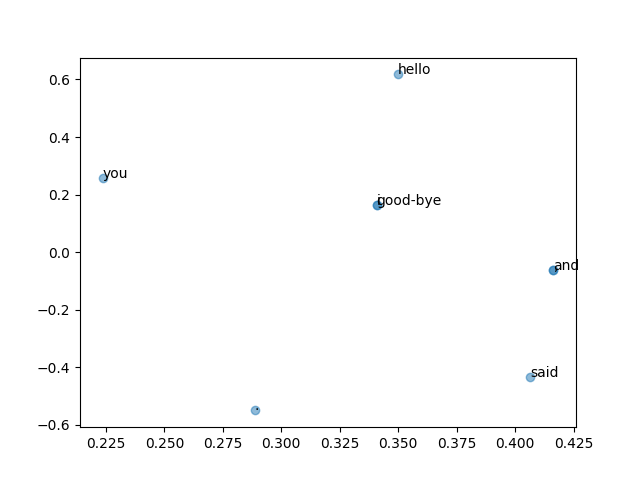
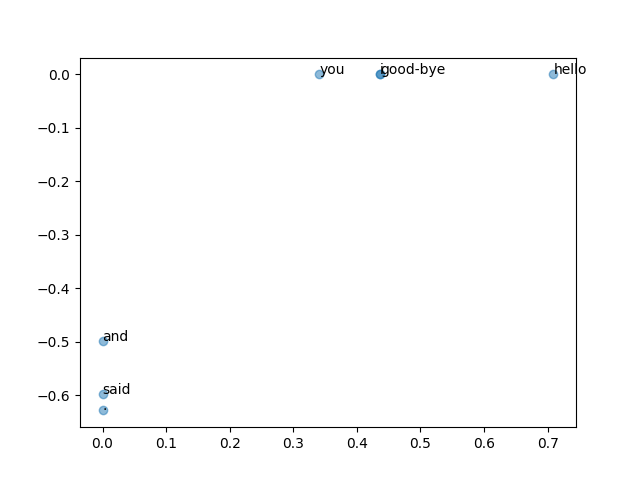
Update value of variable text

diff --git a/test/test_count_based_methods.py b/test/test_count_based_methods.py
@@ -9,7 +9,7 @@ from count_based_methods import CountBasedMethod
 
 class TestCountBasedMethod(unittest.TestCase):
     def setUp(self):
-        text = "You said good-bye, and I said hello."
+        text = "You said good-bye and I said hello."
         self.cbm = CountBasedMethod(text)
         self.cbm.preprocess()
         vocab_size = len(self.cbm.word_to_id)
@@ -17,12 +17,12 @@ class TestCountBasedMethod(unittest.TestCase):
         self.query = "you"
 
     def test_words(self):
-        self.assertEqual(["you", "said", "good-bye", ",", "and", "i", "said", "hello", "."], self.cbm.words)
+        self.assertEqual(["you", "said", "good-bye", "and", "i", "said", "hello", "."], self.cbm.words)
 
     def test_take_out_query(self):
         query_info, query_vec = self.cbm._take_out_query(self.query)
         self.assertEqual({"query": "you"}, query_info)
-        assert_array_equal(np.array([0, 1, 0, 0, 0, 0, 0, 0]), query_vec)
+        assert_array_equal(np.array([0, 1, 0, 0, 0, 0, 0]), query_vec)
 
     def test_cos_similarity(self):
         x = self.cbm.co_matrix[self.cbm.word_to_id["you"]]
@@ -32,7 +32,7 @@ class TestCountBasedMethod(unittest.TestCase):
     def test_calc_cos_similarity(self):
         *_, query_vec = self.cbm._take_out_query(self.query)
         assert_almost_equal(np.array([
-            1., 0., 0.7071068, 0., 0., 0.7071068, 0.7071068, 0.
+            1., 0., 0.7071068, 0., 0.7071068, 0.7071068, 0.
         ]), self.cbm._calc_cos_similarity(query_vec))
 
     def test_output_result_asc(self):
@@ -43,42 +43,39 @@ class TestCountBasedMethod(unittest.TestCase):
             "i": 0.7071067691154799,
             "hello": 0.7071067691154799,
             "said": 0.0,
-            ",": 0.0
+            "and": 0.0
         }, self.cbm._output_result_asc(similarity, self.query))
 
     def test_preprocess(self):
-        assert_array_equal(np.array([0, 1, 2, 3, 4, 5, 1, 6, 7]), self.cbm.corpus)
+        assert_array_equal(np.array([0, 1, 2, 3, 4, 1, 5, 6]), self.cbm.corpus)
         self.assertEqual({
             "you": 0,
             "said": 1,
             "good-bye": 2,
-            ",": 3,
-            "and": 4,
-            "i": 5,
-            "hello": 6,
-            ".": 7
+            "and": 3,
+            "i": 4,
+            "hello": 5,
+            ".": 6
         }, self.cbm.word_to_id)
         self.assertEqual({
             0: "you",
             1: "said",
             2: "good-bye",
-            3: ",",
-            4: "and",
-            5: "i",
-            6: "hello",
-        7: "."
+            3: "and",
+            4: "i",
+            5: "hello",
+            6: "."
         }, self.cbm.id_to_word)
 
     def test_create_co_matrix(self):
         assert_array_equal(np.array([
-            [0, 1, 0, 0, 0, 0, 0, 0],
-            [1, 0, 1, 0, 0, 1, 1, 0],
-            [0, 1, 0, 1, 0, 0, 0, 0],
-            [0, 0, 1, 0, 1, 0, 0, 0],
-            [0, 0, 0, 1, 0, 1, 0, 0],
-            [0, 1, 0, 0, 1, 0, 0, 0],
-            [0, 1, 0, 0, 0, 0, 0, 1],
-            [0, 0, 0, 0, 0, 0, 1, 0]
+            [0, 1, 0, 0, 0, 0, 0],
+            [1, 0, 1, 0, 1, 1, 0],
+            [0, 1, 0, 1, 0, 0, 0],
+            [0, 0, 1, 0, 1, 0, 0],
+            [0, 1, 0, 1, 0, 0, 0],
+            [0, 1, 0, 0, 0, 0, 1],
+            [0, 0, 0, 0, 0, 1, 0]
         ]), self.cbm.co_matrix)
 
     def test_rank_similarity(self):
@@ -88,34 +85,32 @@ class TestCountBasedMethod(unittest.TestCase):
             'i': 0.7071067691154799,
             'hello': 0.7071067691154799,
             'said': 0.0,
-            ',': 0.0
+            'and': 0.0
         }, self.cbm.rank_similarities(self.query))
 
     def test_ppmi(self):
         self.cbm.ppmi()
-        assert_array_equal(np.array([
-            [0., 2., 0., 0., 0., 0., 0., 0.],
-            [2., 0., 1., 0., 0., 1., 1., 0.],
-            [0., 1., 0., 2., 0., 0., 0., 0.],
-            [0., 0., 2., 0., 2., 0., 0., 0.],
-            [0., 0., 0., 2., 0., 2., 0., 0.],
-            [0., 1., 0., 0., 2., 0., 0., 0.],
-            [0., 1., 0., 0., 0., 0., 0., 3.],
-            [0., 0., 0., 0., 0., 0., 3., 0.]
+        assert_almost_equal(np.array([
+            [0., 1.8073549, 0., 0., 0., 0., 0.],
+            [1.8073549, 0., 0.8073549, 0., 0.8073549, 0.8073549, 0.],
+            [0., 0.8073549, 0., 1.8073549, 0., 0., 0.],
+            [0., 0., 1.8073549, 0., 1.8073549, 0., 0.],
+            [0., 0.8073549, 0., 1.8073549, 0., 0., 0.],
+            [0., 0.8073549, 0., 0., 0., 0., 2.807355],
+            [0., 0., 0., 0., 0., 2.807355, 0.]
         ]), self.cbm.M)
 
     def test_svd(self):
         self.cbm.ppmi()
         self.cbm.singular_value_deconposition()
         assert_almost_equal(np.array([
-            [2.2358029e-01,  2.5730875e-01, -1.8918733e-15,  7.0071183e-02,  4.1559568e-01, -6.1818111e-01, -1.5125957e-16,  5.6923324e-01],
-            [4.0655869e-01, -4.3377417e-01,  1.8911931e-15,  1.0841788e-01, -4.9208382e-01, -5.7702208e-01,  4.3715032e-16, -2.4432483e-01],
-            [3.4078276e-01,  1.6512336e-01, -3.7174803e-01, -1.9356677e-01,  3.3881739e-01, -1.8085355e-02, -6.0150093e-01, -4.5167357e-01],
-            [4.1640049e-01, -6.1479867e-02,  6.0150093e-01, -3.5370579e-01, -1.5513299e-01,  2.7162981e-01, -3.7174803e-01,  3.1602857e-01],
-            [4.1640049e-01, -6.1479867e-02, -6.0150093e-01, -3.5370579e-01, -1.5513299e-01,  2.7162981e-01,  3.7174803e-01,  3.1602857e-01],
-            [3.4078276e-01,  1.6512336e-01,  3.7174803e-01, -1.9356677e-01,  3.3881739e-01, -1.8085355e-02,  6.0150093e-01, -4.5167357e-01],
-            [3.4984776e-01,  6.1765921e-01, -1.3564715e-15,  5.8249110e-01, -3.4352767e-01,  1.9532609e-01, -9.8723344e-17, -2.5382388e-02],
-            [2.8858954e-01, -5.4958016e-01,  2.8579891e-15,  5.6470162e-01,  4.3519601e-01,  3.1388810e-01, -9.3341079e-17,  8.8704653e-02]
+            [ 3.40948761e-01,  0.00000000e+00, -1.20516241e-01, -3.88578059e-16, -9.32324946e-01, -1.11022302e-16, -2.42574685e-17],
+            [ 0.00000000e+00, -5.97636402e-01,  0.00000000e+00,  1.80237904e-01,  0.00000000e+00, -7.81245828e-01,  0.00000000e+00],
+            [ 4.36312199e-01, -5.55111512e-17, -5.08782864e-01, -2.22044605e-16,  2.25325629e-01, -1.38777878e-17, -7.07106769e-01],
+            [ 1.11022302e-16, -4.97828126e-01,  2.77555756e-17,  6.80396318e-01, -1.11022302e-16,  5.37799239e-01,  7.46693292e-17],
+            [ 4.36312199e-01, -3.12375064e-17, -5.08782864e-01, -1.59998290e-16,  2.25325629e-01, -1.30164976e-17,  7.07106769e-01],
+            [ 7.09237099e-01, -3.12375064e-17,  6.83926761e-01, -1.59998290e-16,  1.70958877e-01, -1.30164976e-17,  2.31390806e-17],
+            [-1.66533454e-16, -6.28488600e-01, -4.16333634e-17, -7.10334539e-01,  2.22044605e-16,  3.16902101e-01, -9.61431563e-17]
         ]), self.cbm.U)
 
     def test_save_svd_plot_image(self):
